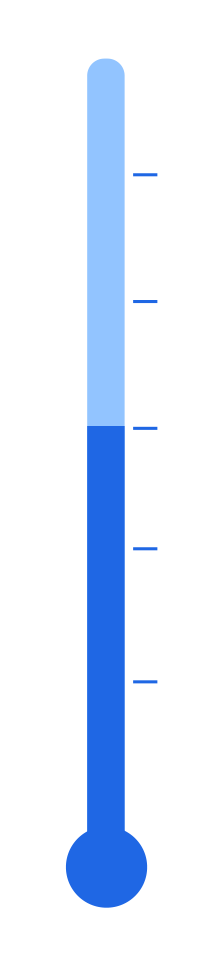
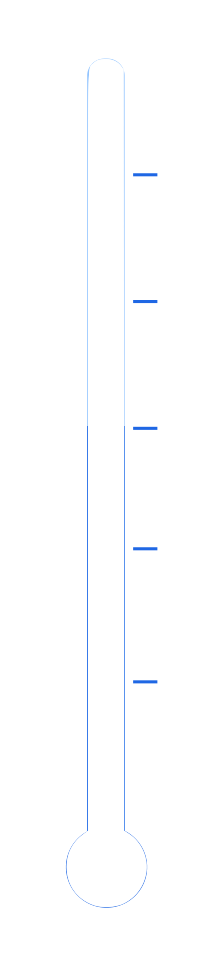
Add state to thermometer image!

Changed region(s): [[0.3173, 0.062, 0.7212, 0.9607]]

diff --git a/app/components/Thermometer/Thermometer.jsx b/app/components/Thermometer/Thermometer.jsx
@@ -2,6 +2,7 @@ import styles from './_Thermometer.scss';
 import React from 'react';
 import TemperatureStore from '../../stores/TemperatureStore'
 import AppAction from '../../actions/AppActions'
+var ReactCSSTransitionGroup = require('react-addons-css-transition-group');
 
 import "../../assets/thermometer0.png"
 
@@ -13,7 +14,10 @@ export default class Thermometer extends Component {
   constructor(props) {
     super(props);
     this.state = {
-      temperature: 50
+      temperature: 50,
+      bar: {
+        height: 100,
+      }
     };
   }
 
@@ -34,14 +38,27 @@ export default class Thermometer extends Component {
   };
 
   onChange() {
-    this.setState({temperature: TemperatureStore.getTemp()});
+    let temp = TemperatureStore.getTemp();
+    let data = {
+      temperature: temp,
+      bar: {
+        height: temp/60*300,
+      }
+    };
+    this.setState(data);
+    console.log("STATE: ", this.state);
   }
 
   render() {
     let structure = (
       <div className={styles.container}>
         <div className={styles.leftContainer}>
-          <img className={styles.image} ref="img" src="../assets/thermometer0.png"/>
+          <div className={styles.imageWrapper}>
+            <ReactCSSTransitionGroup transitionName="example" transitionEnterTimeout={500} transitionLeaveTimeout={300}>
+              <div style={this.state.bar} className={styles.imageBar}></div>
+            </ReactCSSTransitionGroup>
+            <img className={styles.image} ref="img" src="../assets/thermometer0.png"/>
+          </div>
         </div>
         <div className={styles.rightContainer}>
           <div className={styles.childTemperatureTextContainer}>

diff --git a/app/components/Thermometer/_Thermometer.scss b/app/components/Thermometer/_Thermometer.scss
@@ -3,9 +3,30 @@
   flex-direction: row;
 }
 
-.image {
+
+.imageWrapper {
+  //background-color: #2f6fad;
+  position: relative;
   height: 322.66666666666667px;
   width: 69.33333333333333px;
+}
+
+.image {
+  position: absolute;
+  height: 322.66666666666667px;
+  width: 69.33333333333333px;
+}
+
+.imageBar {
+  width: 40px;
+  height: 200px;
+  background-color: dodgerblue;
+  margin-left: auto;
+  margin-right: auto;
+  left: 0;
+  right: 0;
+  bottom: 10px;
+  position: absolute;
 }
 
 .leftContainer {
@@ -14,7 +35,7 @@
   align-items: center;
   display: flex;
   flex: 1;
-  background-color: rosybrown;
+  background-color: darkslategrey;
 }
 
 .rightContainer {

diff --git a/app/components/App/_App.scss b/app/components/App/_App.scss
@@ -1,6 +1,12 @@
 @import "toolkit";
 
 .app {
+  position: relative;
   font-size: inherit;
-  @include my-padding-mixin(20px);
+  display: block;
+  @include my-padding-mixin(0px);
+}
+
+body {
+  background-color: lightcyan;
 }
